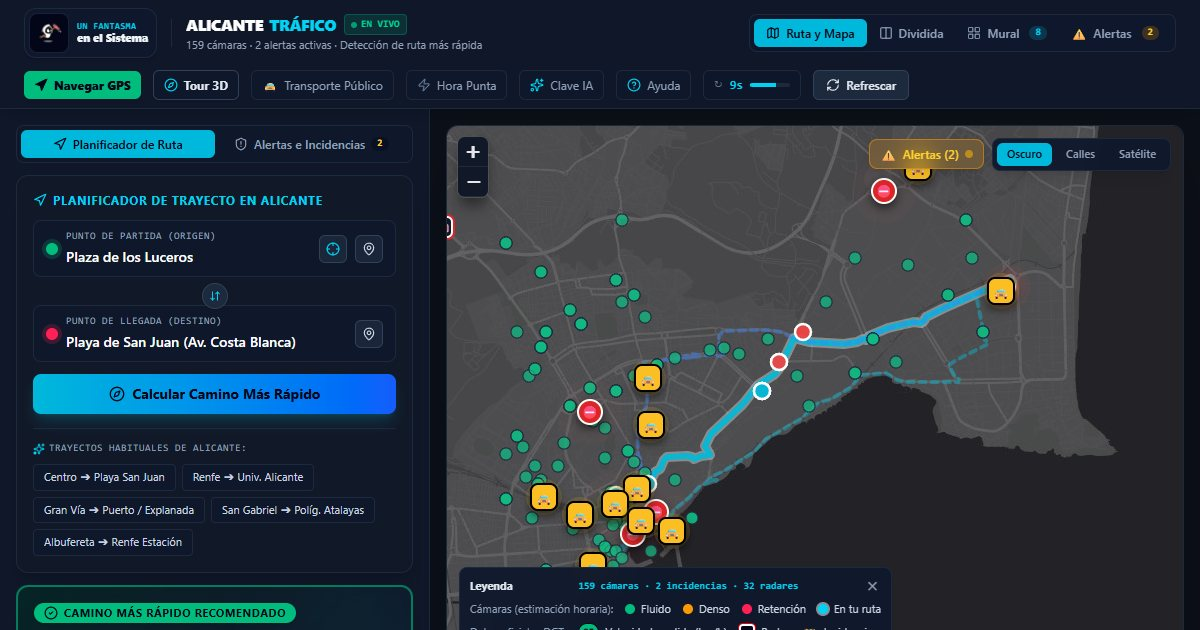
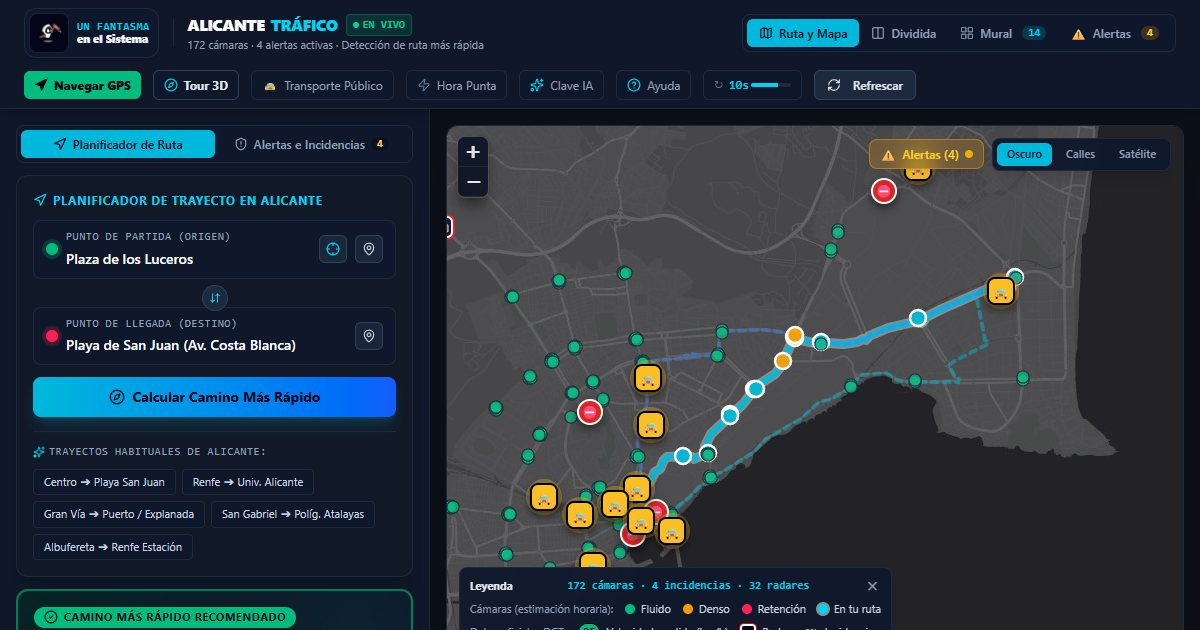
feat: 13 cámaras municipales nuevas (de 159 a 172)
- Cámaras que el Ayuntamiento publica en su mapa de movilidad y la app no tenía, con la
  posición de su cruce y la imagen en tamaño grande.
- Dos ejes del mural citaban C37F4 y C48M1, que no existían en la lista.
- El recuento sale de la lista: «Todas (N)», leyenda del mapa, bienvenida y cámaras por
  zona. Manifiesto y README pasan a 172.
- og-image regenerada.
- Tests: 3 unitarios nuevos.

diff --git a/src/data/cameras.ts b/src/data/cameras.ts
@@ -1457,20 +1457,138 @@ export const CAMERAS: TrafficCamera[] = [
     "lat": 38.342274,
     "lng": -0.550758,
     "index": 158
+  },
+  {
+    "id": "C04F2",
+    "name": "Avda. de Denia",
+    "zona": "Avda. Denia",
+    "url": "https://movilidad.alicante.es/sites/default/files/styles/upload_fotograma_big/public/camara/C04F2.jpg?itok=LnWIaOqd",
+    "lat": 38.368352,
+    "lng": -0.458285,
+    "index": 159
+  },
+  {
+    "id": "C06M3",
+    "name": "Avda. Padre Esplá",
+    "zona": "Vía Parque · Norte",
+    "url": "https://movilidad.alicante.es/sites/default/files/styles/upload_fotograma_big/public/camara/C06M3.jpg?itok=G2KMEudZ",
+    "lat": 38.357845,
+    "lng": -0.469522,
+    "index": 160
+  },
+  {
+    "id": "C06M4",
+    "name": "Avda. Denia",
+    "zona": "Vía Parque · Norte",
+    "url": "https://movilidad.alicante.es/sites/default/files/styles/upload_fotograma_big/public/camara/C06M4.jpg?itok=JG12rolu",
+    "lat": 38.357845,
+    "lng": -0.469522,
+    "index": 161
+  },
+  {
+    "id": "C14M2",
+    "name": "Avda. Pintor Xavier Soler",
+    "zona": "Avda. Denia",
+    "url": "https://movilidad.alicante.es/sites/default/files/styles/upload_fotograma_big/public/camara/C14M2.jpg?itok=ZR5d3AgV",
+    "lat": 38.361334,
+    "lng": -0.465179,
+    "index": 162
+  },
+  {
+    "id": "C14M3",
+    "name": "Avda. Denia",
+    "zona": "Avda. Denia",
+    "url": "https://movilidad.alicante.es/sites/default/files/styles/upload_fotograma_big/public/camara/C14M3.jpg?itok=A_X3fRcT",
+    "lat": 38.361334,
+    "lng": -0.465179,
+    "index": 163
+  },
+  {
+    "id": "C18M3",
+    "name": "Avda. Elche - N 332",
+    "zona": "Avda. Elche",
+    "url": "https://movilidad.alicante.es/sites/default/files/styles/upload_fotograma_big/public/camara/C18M3.jpg?itok=XR4KHo21",
+    "lat": 38.333726,
+    "lng": -0.505336,
+    "index": 164
+  },
+  {
+    "id": "C26F2",
+    "name": "Entrada Ciudad",
+    "zona": "Puerto · Postiguet",
+    "url": "https://movilidad.alicante.es/sites/default/files/styles/upload_fotograma_big/public/camara/C26F2.jpg?itok=OKPhiuP_",
+    "lat": 38.352588,
+    "lng": -0.473277,
+    "index": 165
+  },
+  {
+    "id": "C26F3",
+    "name": "Salida Ciudad",
+    "zona": "Puerto · Postiguet",
+    "url": "https://movilidad.alicante.es/sites/default/files/styles/upload_fotograma_big/public/camara/C26F3.jpg?itok=DcLbOvcl",
+    "lat": 38.352588,
+    "lng": -0.473277,
+    "index": 166
+  },
+  {
+    "id": "C31F2",
+    "name": "Avda. Elche",
+    "zona": "Avda. Elche",
+    "url": "https://movilidad.alicante.es/sites/default/files/styles/upload_fotograma_big/public/camara/C31F2.jpg?itok=z7COG0ET",
+    "lat": 38.338466,
+    "lng": -0.493392,
+    "index": 167
+  },
+  {
+    "id": "C37F4",
+    "name": "Avda. Universidad",
+    "zona": "Vía Parque · Norte",
+    "url": "https://movilidad.alicante.es/sites/default/files/styles/upload_fotograma_big/public/camara/C37F4.jpg?itok=5hfmDvX9",
+    "lat": 38.365132,
+    "lng": -0.500032,
+    "index": 168
+  },
+  {
+    "id": "C48M1",
+    "name": "Avda. de Denia - Santa Faz",
+    "zona": "Avda. Denia",
+    "url": "https://movilidad.alicante.es/sites/default/files/styles/upload_fotograma_big/public/camara/C48M1.jpg?itok=wK6rhew2",
+    "lat": 38.382522,
+    "lng": -0.450995,
+    "index": 169
+  },
+  {
+    "id": "C48M2",
+    "name": "Avda. Denia - Acceso A-70",
+    "zona": "Avda. Denia",
+    "url": "https://movilidad.alicante.es/sites/default/files/styles/upload_fotograma_big/public/camara/C48M2.jpg?itok=YTdkNCGO",
+    "lat": 38.382522,
+    "lng": -0.450995,
+    "index": 170
+  },
+  {
+    "id": "C67M1",
+    "name": "Rot. C/ Arco Iris - C/ Guillermo Stewart",
+    "zona": "Polígonos Industriales",
+    "url": "https://movilidad.alicante.es/sites/default/files/styles/upload_fotograma_big/public/camara/C67M1.jpg?itok=M5DoWme2",
+    "lat": 38.346973,
+    "lng": -0.553088,
+    "index": 171
   }
 ];
 
+// The number of cameras of each zone is counted from the list above
 export const ZONES: AlicanteZone[] = [
-  { name: "Gran Vía", count: 36, color: "#38bdf8" },
-  { name: "Centro Ciudad", count: 32, color: "#f59e0b" },
-  { name: "Vía Parque · Norte", count: 39, color: "#a855f7" },
-  { name: "Litoral", count: 3, color: "#06b6d4" },
-  { name: "Avda. Denia", count: 8, color: "#ec4899" },
-  { name: "Avda. Elche", count: 10, color: "#eab308" },
-  { name: "Puerto · Postiguet", count: 6, color: "#14b8a6" },
-  { name: "Albufereta · Playa San Juan", count: 14, color: "#10b981" },
-  { name: "Polígonos Industriales", count: 11, color: "#f97316" }
-];
+  { name: "Gran Vía", color: "#38bdf8" },
+  { name: "Centro Ciudad", color: "#f59e0b" },
+  { name: "Vía Parque · Norte", color: "#a855f7" },
+  { name: "Litoral", color: "#06b6d4" },
+  { name: "Avda. Denia", color: "#ec4899" },
+  { name: "Avda. Elche", color: "#eab308" },
+  { name: "Puerto · Postiguet", color: "#14b8a6" },
+  { name: "Albufereta · Playa San Juan", color: "#10b981" },
+  { name: "Polígonos Industriales", color: "#f97316" }
+].map((zone) => ({ ...zone, count: CAMERAS.filter((cam) => cam.zona === zone.name).length }));
 
 export const PRESET_ROUTES: Record<string, { label: string; icon: string; cameraIds: string[] }> = {
   playa: {

diff --git a/tests/unit/cameras.test.ts b/tests/unit/cameras.test.ts
@@ -1,5 +1,5 @@
 import { describe, expect, it } from 'vitest';
-import { CAMERAS, TrafficCamera } from '../../src/data/cameras';
+import { CAMERAS, PRESET_ROUTES, TrafficCamera, ZONES } from '../../src/data/cameras';
 import { junctionOf, matchCamerasToRoute, namesMatch, RouteStep } from '../../src/services/routing';
 import { spreadSharedPositions } from '../../src/services/cameraLayout';
 import { getDistanceMeters } from '../../src/services/geometry';
@@ -113,6 +113,31 @@ describe('datos de cámaras publicados con la app', () => {
     }
     const coarse = CAMERAS.filter((c) => String(c.lat).split('.')[1].length < 5 && String(c.lng).split('.')[1].length < 5);
     expect(coarse.length).toBeLessThan(5);
+  });
+});
+
+describe('lista de cámaras', () => {
+  it('no repite identificadores, numera en orden y usa la imagen grande de cada cámara', () => {
+    expect(new Set(CAMERAS.map((c) => c.id)).size).toBe(CAMERAS.length);
+    expect(CAMERAS.map((c) => c.index)).toEqual(CAMERAS.map((_, i) => i));
+    for (const c of CAMERAS) {
+      expect(c.url).toContain(`/styles/upload_fotograma_big/public/camara/${c.id}.jpg?itok=`);
+    }
+  });
+
+  it('incluye las cámaras que el Ayuntamiento publica y que usan los ejes principales', () => {
+    const ids = new Set(CAMERAS.map((c) => c.id));
+    for (const id of ['C04F2', 'C06M3', 'C06M4', 'C14M2', 'C14M3', 'C18M3', 'C26F2', 'C26F3', 'C31F2', 'C37F4', 'C48M1', 'C48M2', 'C67M1']) {
+      expect(ids.has(id), id).toBe(true);
+    }
+    // Every camera named by a preset route exists
+    const missing = Object.values(PRESET_ROUTES).flatMap((p) => p.cameraIds).filter((id) => !ids.has(id));
+    expect(missing).toEqual([]);
+  });
+
+  it('el recuento por zona sale de la lista', () => {
+    expect(ZONES.reduce((sum, z) => sum + z.count, 0)).toBe(CAMERAS.length);
+    expect(ZONES.every((z) => z.count > 0)).toBe(true);
   });
 });
 

diff --git a/src/components/OnboardingTour.tsx b/src/components/OnboardingTour.tsx
@@ -1,5 +1,6 @@
 import React, { useCallback, useEffect, useLayoutEffect, useRef, useState } from 'react';
 import { ChevronLeft, ChevronRight, Sparkles, X } from 'lucide-react';
+import { CAMERAS } from '../data/cameras';
 
 /** localStorage key: 'done' (tour finished) or 'dismissed' (welcome declined) */
 export const ONBOARDING_STORAGE_KEY = 'alicante_onboarding_v1';
@@ -189,7 +190,7 @@ export const OnboardingWelcome: React.FC<OnboardingWelcomeProps> = ({ onStart, o
           Bienvenido a Alicante Tráfico en Vivo
         </h2>
         <p className="mt-1.5 text-sm text-slate-300 leading-relaxed">
-          Rutas con el tráfico real de la DGT, 159 cámaras en directo, GPS paso a paso, recorridos en 3D y herramientas
+          Rutas con el tráfico real de la DGT, {CAMERAS.length} cámaras en directo, GPS paso a paso, recorridos en 3D y herramientas
           para taxistas. ¿Te enseño lo básico? Es <b className="text-white">menos de un minuto</b>.
         </p>
         <div className="mt-5 flex flex-col-reverse sm:flex-row gap-2 sm:justify-end">

diff --git a/src/components/InteractiveMap.tsx b/src/components/InteractiveMap.tsx
@@ -325,7 +325,7 @@ export const InteractiveMap: React.FC<InteractiveMapProps> = ({
     }
   }, [routes, selectedRouteId]);
 
-  // Update 159 Camera Markers
+  // Update the camera markers
   useEffect(() => {
     const map = mapInstanceRef.current;
     if (!map) return;
@@ -849,7 +849,7 @@ export const InteractiveMap: React.FC<InteractiveMapProps> = ({
           <div className="font-bold text-slate-200 mb-1.5 flex items-center justify-between gap-3">
             <span>Leyenda</span>
             <span className="text-[11px] text-cyan-400 font-mono">
-              159 cámaras · {alerts.length} incidencias · {radars.length} radares
+              {CAMERAS.length} cámaras · {alerts.length} incidencias · {radars.length} radares
             </span>
             <button onClick={() => setLegendOpen(false)} className="text-slate-400 hover:text-white px-1" aria-label="Ocultar leyenda">
               ✕

diff --git a/src/components/CameraWall.tsx b/src/components/CameraWall.tsx
@@ -180,7 +180,7 @@ export const CameraWall: React.FC<CameraWallProps> = ({
                   : 'text-slate-400 hover:text-white hover:bg-slate-800'
               }`}
             >
-              <span>Todas (159)</span>
+              <span>Todas ({CAMERAS.length})</span>
             </button>
           </div>
 

diff --git a/README.md b/README.md
@@ -9,7 +9,7 @@
 [![PWA](https://img.shields.io/badge/PWA-Ready-5A0FC8?style=for-the-badge&logo=pwa)](https://web.dev/progressive-web-apps/)
 [![License](https://img.shields.io/badge/License-MIT-green.style=for-the-badge)](LICENSE)
 
-> **Plataforma web y móvil para moverse por Alicante.** Calcula rutas reales por el callejero (OSRM), las compara con las **incidencias oficiales de la DGT** en tiempo real y con una estimación de retenciones por franja horaria, muestra las **159 cámaras municipales de tráfico** en un solo muro, recorre la ruta en **3D sobre ortofoto real con edificios de OpenStreetMap**, guía con **GPS paso a paso** y ofrece una **suite para taxistas y transporte público** de Alicante.
+> **Plataforma web y móvil para moverse por Alicante.** Calcula rutas reales por el callejero (OSRM), las compara con las **incidencias oficiales de la DGT** en tiempo real y con una estimación de retenciones por franja horaria, muestra las **172 cámaras municipales de tráfico** en un solo muro, recorre la ruta en **3D sobre ortofoto real con edificios de OpenStreetMap**, guía con **GPS paso a paso** y ofrece una **suite para taxistas y transporte público** de Alicante.
 
 **👉 Abrir la app: [jpm70.github.io/alicante-traffic-live](https://jpm70.github.io/alicante-traffic-live/)** — pensada para el móvil (se puede instalar como app) y para el navegador del coche.
 
@@ -52,7 +52,7 @@ Capturas reales de la aplicación publicada, en un móvil Android (390 × 844) y
 - **Retenciones estimadas en la ciudad**: las calles urbanas no tienen un feed público de velocidades, así que allí la congestión en cada cámara se **estima** por franja horaria y puntos conflictivos (y la interfaz lo indica). Botón de *Hora Punta* para forzar el escenario de máxima carga.
 - **Cámaras en ruta**: las de los cruces por los que pasa el trazado, y de cada cruce las que miran a la calle de la ruta. La posición de cada cruce es la que publica el Ayuntamiento en su mapa de movilidad (`npm run cameras` la actualiza); la retención estimada se cuenta una vez por cruce.
 
-### 📹 2. Red de 159 Cámaras Municipales en Tiempo Real
+### 📹 2. Red de 172 Cámaras Municipales en Tiempo Real
 - **Muro multicámara único**: Todas las cámaras de Alicante en una cuadrícula optimizada sin sobrecargar la memoria del navegador.
 - **Ciclo de refresco continuo**: Actualización automática de instantáneas cada 15 segundos con indicador de cuenta atrás.
 - **Modo Picture-in-Picture (PiP)**: Fija cualquier cámara en una ventana flotante para seguir vigilando un cruce mientras navegas por otras pestañas o calculas rutas.
@@ -224,7 +224,7 @@ Fuera de esa zona, el 3D los pide en directo a Overpass.
 │   │   ├── RouteTourModal.tsx          # Modal contenedor del tour virtual
 │   │   ├── StreetViewTourView.tsx      # Visor Street View con HUD y minimapa
 │   │   ├── GpsNavigatorModal.tsx       # Navegador GPS turn-by-turn con voz
-│   │   ├── CameraWall.tsx              # Cuadrícula de 159 cámaras en vivo
+│   │   ├── CameraWall.tsx              # Cuadrícula de 172 cámaras en vivo
 │   │   ├── CameraLightbox.tsx          # Visor en pantalla completa de cámaras
 │   │   ├── FloatingCameraPip.tsx       # Ventana Picture-in-Picture persistente
 │   │   ├── PublicTransportBar.tsx      # Barra de herramientas de transporte público
